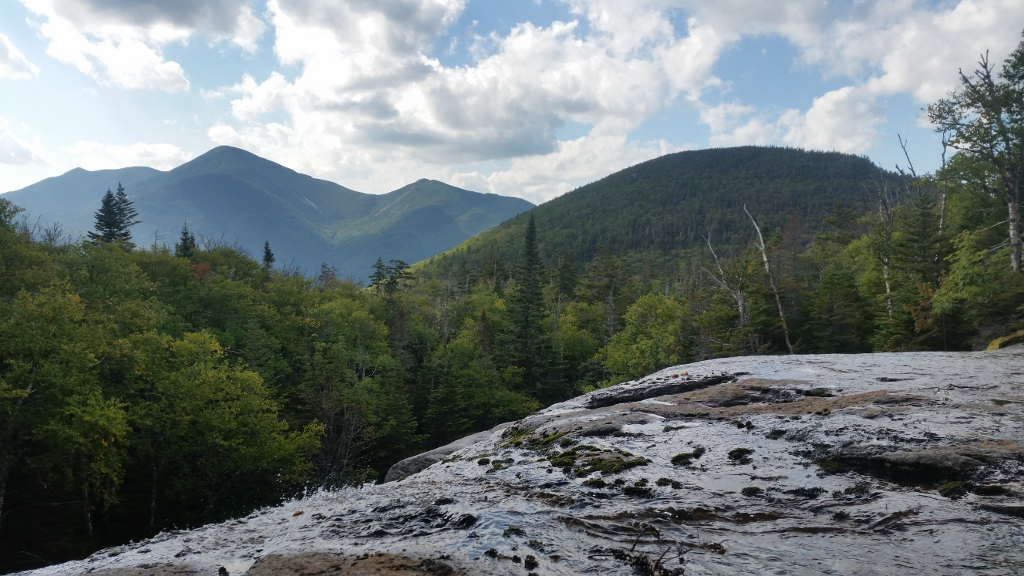
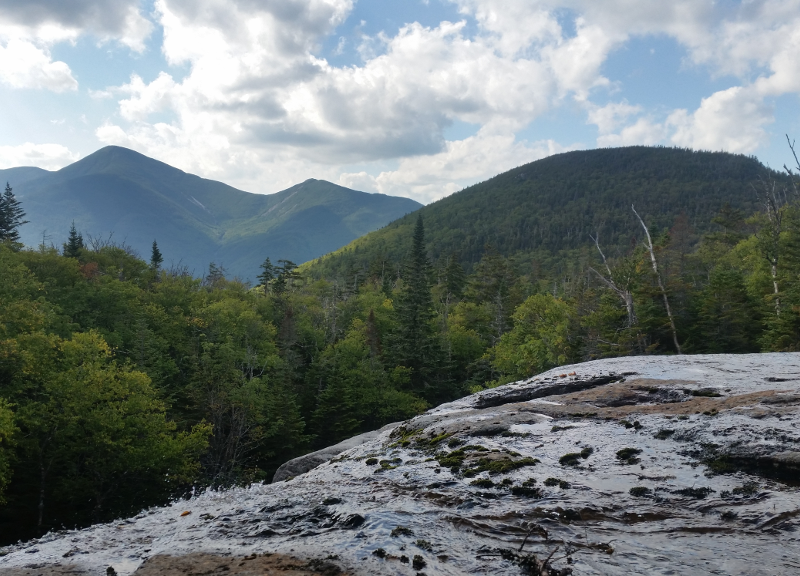
change slider images and resize a few images

diff --git a/content/css/overrides.css b/content/css/overrides.css
@@ -113,3 +113,11 @@ body {
 .panel-default {
 	max-width: 800px;
 }
+
+/* slides overrides */
+.slidesjs-navigation {
+	cursor: pointer;
+}
+.slidesjs-navigation:hover {
+	color: #A2A2A2;
+}

diff --git a/index.php b/index.php
@@ -9,17 +9,15 @@
         width: 800,
         height: 600,
         navigation: {
-        	active: true,
+        	active: false,
         	effect: "fade"
         },
         pagination: {
         	active: false
         },
         play: {
-          active: true,
-          auto: true,
-          interval: 6000,
-          swap: true
+          active: false
+
         }
       });
     });
@@ -28,11 +26,6 @@
 			#_about-slider {
 				display:none;
 			}
-			a.slidesjs-next {
-			  background: url(glyphicon-circle-arrow-left);
-		      margin-right:10px;
-		      background-position: -12px 0;
-		    }
 		</style>
 	</head>
 	<body>
@@ -65,6 +58,10 @@
 							<img src="content/images/about/rangersRedwings.jpg">
 							<img src="content/images/about/belmont.jpg">
 							<img src="content/images/about/baldmtnsmall.png">
+							<span class="slidesjs-previous slidesjs-navigation glyphicon glyphicon-chevron-left" style="padding-top:10px;" aria-hidden="true">
+							</span>
+							<span class="slidesjs-next slidesjs-navigation glyphicon glyphicon-chevron-right" style="padding-top:10px;" aria-hidden="true">
+							</span>
 						</div>
 					</div>
 				</div>
